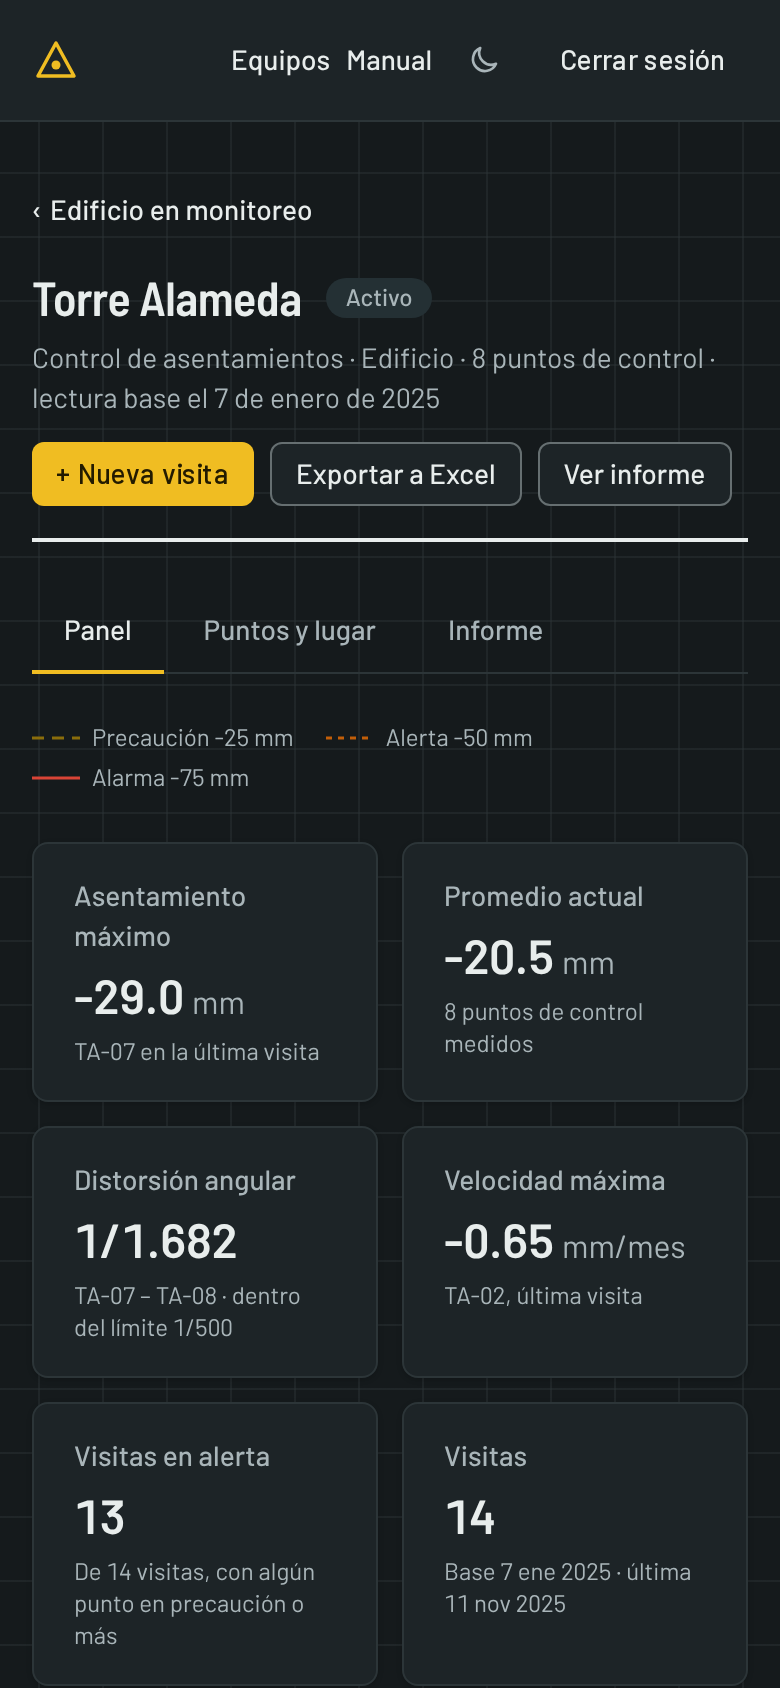
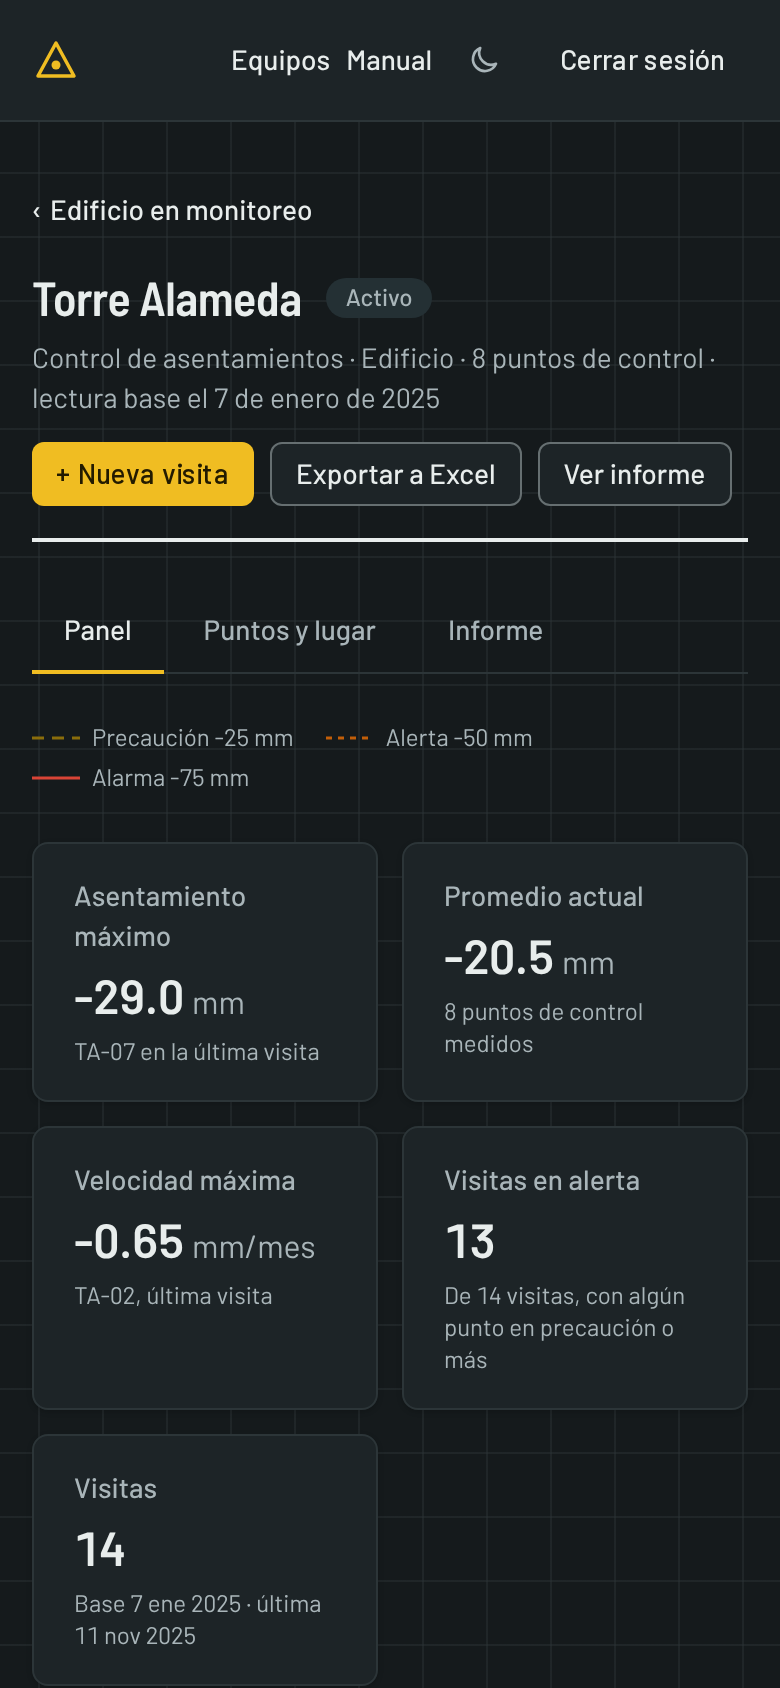
docs: manual — los puntos de control sin posición
Fase 29, en las dos copias. Sin el límite de distorsión, sin Norte ni Este
en el catálogo, cinco indicadores y sin la tabla de diferenciales. La C0
fija ya no habla de coordenadas. Capturas 05, 13, 14, 15 y 29.

diff --git a/src/app/(app)/manual/page.tsx b/src/app/(app)/manual/page.tsx
@@ -1351,12 +1351,6 @@ export default function ManualPage() {
         </p>
 
         <p>
-          También define el <strong>límite de distorsión angular</strong>,
-          expresado como <code>1/X</code>: un X menor es más severo (1/300 es
-          peor que 1/500).
-        </p>
-
-        <p>
           Al abrir un lugar desde el proyecto se ve su pantalla (4.4), con tres
           pestañas: <strong>Panel</strong>, con el historial del monitoreo
           (7.4); <strong>Puntos y lugar</strong>, con los datos, los umbrales y
@@ -1373,11 +1367,16 @@ export default function ManualPage() {
 
         <p>
           Ya creado el lugar, en su pestaña <strong>Puntos y lugar</strong>{" "}
-          agregue sus <strong>puntos de control</strong>:
-          código, ubicación, coordenadas Norte/Este (opcionales, pero
-          necesarias para calcular distorsión angular entre puntos) y la{" "}
-          <strong>cota inicial (C0)</strong> — la referencia contra la que se
-          mide el asentamiento acumulado de todas las visitas futuras.
+          agregue sus <strong>puntos de control</strong>: código, ubicación
+          y la <strong>cota inicial (C0)</strong> — la referencia contra la que
+          se mide el asentamiento acumulado de todas las visitas futuras.
+        </p>
+
+        <p>
+          Los puntos no llevan coordenadas: el módulo mide cuánto baja cada
+          punto, no dónde está, así que no calcula distancias entre puntos,
+          asentamientos diferenciales ni distorsión angular. Un lugar cerrado
+          antes de este cambio tampoco los muestra ya.
         </p>
 
         <p>
@@ -1388,10 +1387,9 @@ export default function ManualPage() {
 
         <p>
           Cuando un punto ya se midió en una visita <strong>cerrada</strong>,
-          su C0 y sus coordenadas quedan fijas: los asentamientos con que se
-          cerró esa visita dependen de ellas. El diálogo{" "}
-          <strong>Editar</strong> las muestra bloqueadas; el código y la
-          ubicación se siguen pudiendo cambiar.
+          su C0 queda fija: los asentamientos con que se cerró esa visita
+          dependen de ella. El diálogo <strong>Editar</strong> la muestra
+          bloqueada; el código y la ubicación se siguen pudiendo cambiar.
         </p>
 
         <p>
@@ -1684,7 +1682,7 @@ export default function ManualPage() {
         </p>
 
         <p>
-          <strong>Indicadores.</strong> Seis, sobre la última visita y el
+          <strong>Indicadores.</strong> Cinco, sobre la última visita y el
           histórico:
         </p>
 
@@ -1782,24 +1780,6 @@ export default function ManualPage() {
           tener puntos en alerta o alarma. Un asentamiento alarmante es
           exactamente el hallazgo que este módulo existe para documentar;
           bloquearlo ocultaría el dato que más importa.
-        </p>
-
-        <p>
-          <strong>Diferenciales y distorsión angular.</strong> Compara cada
-          par de puntos: cuánto difieren sus asentamientos acumulados y qué
-          distorsión angular implica esa diferencia dada la distancia entre
-          ellos, como <code>1/X</code>. Un par sin coordenadas capturadas
-          queda fuera de esta tabla en vez de calcularse con una distancia de
-          cero.
-        </p>
-
-        <p>
-          Si uno de los dos puntos se dio de alta a mitad del monitoreo, los
-          dos asentamientos se miden <strong>desde la fecha de ese alta</strong>{" "}
-          —el periodo que ambos comparten— y la fila lo indica debajo del par
-          («desde el 15 de marzo de 2025»). Comparar un punto que lleva meses
-          bajando con uno recién instalado daría una distorsión que no
-          significa nada.
         </p>
 
         <h3 id="vista-visita" className="mt-4 scroll-mt-6 text-lg font-semibold">

diff --git a/src/app/(app)/manual/manual-data.ts b/src/app/(app)/manual/manual-data.ts
@@ -119,13 +119,13 @@ export const CAPTURAS = {
     src: "/manual/14-editor-lugar.png",
     alt: "Pestaña Puntos y lugar: datos generales, umbrales y catálogo de puntos de control.",
     width: 2560,
-    height: 3302,
+    height: 3062,
   },
   panelAsentamientos: {
     src: "/manual/15-panel-asentamientos.png",
-    alt: "Panel del lugar Torre Alameda: los seis indicadores, la tabla de visitas con los cierres fuera de tolerancia marcados con ⚠, la tendencia del promedio con su banda y los umbrales, la evolución por punto con sus chips y el semáforo de la última visita.",
+    alt: "Panel del lugar Torre Alameda: los cinco indicadores, la tabla de visitas con los cierres fuera de tolerancia marcados con ⚠, la tendencia del promedio con su banda y los umbrales, la evolución por punto con sus chips y el semáforo de la última visita.",
     width: 2560,
-    height: 5438,
+    height: 5436,
   },
   nuevaVisita: {
     src: "/manual/25-nueva-visita.png",
@@ -456,11 +456,6 @@ export const INDICADORES_LUGAR = [
   {
     indicador: "Promedio actual",
     muestra: "La media del acumulado de los puntos medidos en la última visita",
-  },
-  {
-    indicador: "Distorsión angular",
-    muestra:
-      "El par con la peor distorsión en la última visita, y si supera el límite del lugar",
   },
   {
     indicador: "Velocidad máxima",

diff --git a/docs/manual/README.md b/docs/manual/README.md
@@ -847,9 +847,6 @@ el tipo aplica un juego de **umbrales de alerta** típico para ese tipo de
 estructura — de velocidad y de asentamiento acumulado — que puede editar a
 continuación si el caso lo requiere.
 
-También define el **límite de distorsión angular**, expresado como `1/X`: un
-X menor es más severo (1/300 es peor que 1/500).
-
 Al abrir un lugar desde el proyecto se ve su pantalla
 ([§ 4.4](#44-la-pantalla-de-un-proceso)), con tres pestañas: **Panel**, con
 el historial del monitoreo (§ 7.4); **Puntos y lugar**, con los datos, los
@@ -861,19 +858,22 @@ umbrales y el catálogo de puntos (§ 7.2); e **Informe**. En la cabecera,
 ![Pestaña Puntos y lugar, con el catálogo de puntos](../../public/manual/14-editor-lugar.png)
 
 Ya creado el lugar, en su pestaña **Puntos y lugar** agregue sus **puntos de
-control**: código, ubicación,
-coordenadas Norte/Este (opcionales, pero necesarias para calcular distorsión
-angular entre puntos) y la **cota inicial (C0)** — la referencia contra la
-que se mide el asentamiento acumulado de todas las visitas futuras.
+control**: código, ubicación y la **cota inicial (C0)** — la referencia
+contra la que se mide el asentamiento acumulado de todas las visitas futuras.
+
+Los puntos no llevan coordenadas: el módulo mide cuánto baja cada punto, no
+dónde está, así que no calcula distancias entre puntos, asentamientos
+diferenciales ni distorsión angular. Un lugar cerrado antes de este cambio
+tampoco los muestra ya.
 
 La C0 es opcional. Si la deja vacía, la **línea base del punto es su primera
 lectura**: esa lectura queda con acumulado 0 y las siguientes se miden contra
 ella.
 
-Cuando un punto ya se midió en una visita **cerrada**, su C0 y sus coordenadas
-quedan fijas: los asentamientos con que se cerró esa visita dependen de ellas.
-El diálogo **Editar** las muestra bloqueadas; el código y la ubicación se
-siguen pudiendo cambiar.
+Cuando un punto ya se midió en una visita **cerrada**, su C0 queda fija: los
+asentamientos con que se cerró esa visita dependen de ella. El diálogo
+**Editar** la muestra bloqueada; el código y la ubicación se siguen pudiendo
+cambiar.
 
 **Renombrar un punto** cambia también su código en la libreta de las visitas
 **abiertas** (§ 7.3), para que su cota siga saliendo de su fila. Las visitas
@@ -1041,13 +1041,12 @@ historial completo. La cabecera dice cuántos puntos de control tiene y la
 fecha de la lectura base; arriba del panel, la leyenda de los tres umbrales de
 acumulado que dibujan las gráficas.
 
-**Indicadores.** Seis, sobre la última visita y el histórico:
+**Indicadores.** Cinco, sobre la última visita y el histórico:
 
 | Indicador | Qué muestra |
 |---|---|
 | Asentamiento máximo | El acumulado de mayor magnitud en la última visita, con su punto. Un levantamiento también cuenta |
 | Promedio actual | La media del acumulado de los puntos medidos en la última visita |
-| Distorsión angular | El par con la peor distorsión en la última visita, y si supera el límite del lugar |
 | Velocidad máxima | La de mayor magnitud en la última visita, en mm/mes, con su punto |
 | Visitas en alerta | Cuántas visitas tienen algún punto en precaución o más |
 | Visitas | El total, con la fecha de la lectura base y la de la última |
@@ -1104,18 +1103,6 @@ diagnóstico, no un control de captura: la aplicación **nunca** impide guardar
 una visita ni cerrarla por tener puntos en alerta o alarma. Un asentamiento
 alarmante es exactamente el hallazgo que este módulo existe para documentar;
 bloquearlo ocultaría el dato que más importa.
-
-**Diferenciales y distorsión angular.** Compara cada par de puntos: cuánto
-difieren sus asentamientos acumulados y qué **distorsión angular** implica
-esa diferencia dada la distancia entre ellos, como `1/X`. Un par sin
-coordenadas capturadas queda fuera de esta tabla en vez de calcularse con una
-distancia de cero.
-
-Si uno de los dos puntos se dio de alta a mitad del monitoreo, los dos
-asentamientos se miden **desde la fecha de ese alta** —el periodo que ambos
-comparten— y la fila lo indica debajo del par («desde el 15 de marzo de
-2025»). Comparar un punto que lleva meses bajando con uno recién instalado
-daría una distorsión que no significa nada.
 
 ### 7.5 La vista de una visita
 
